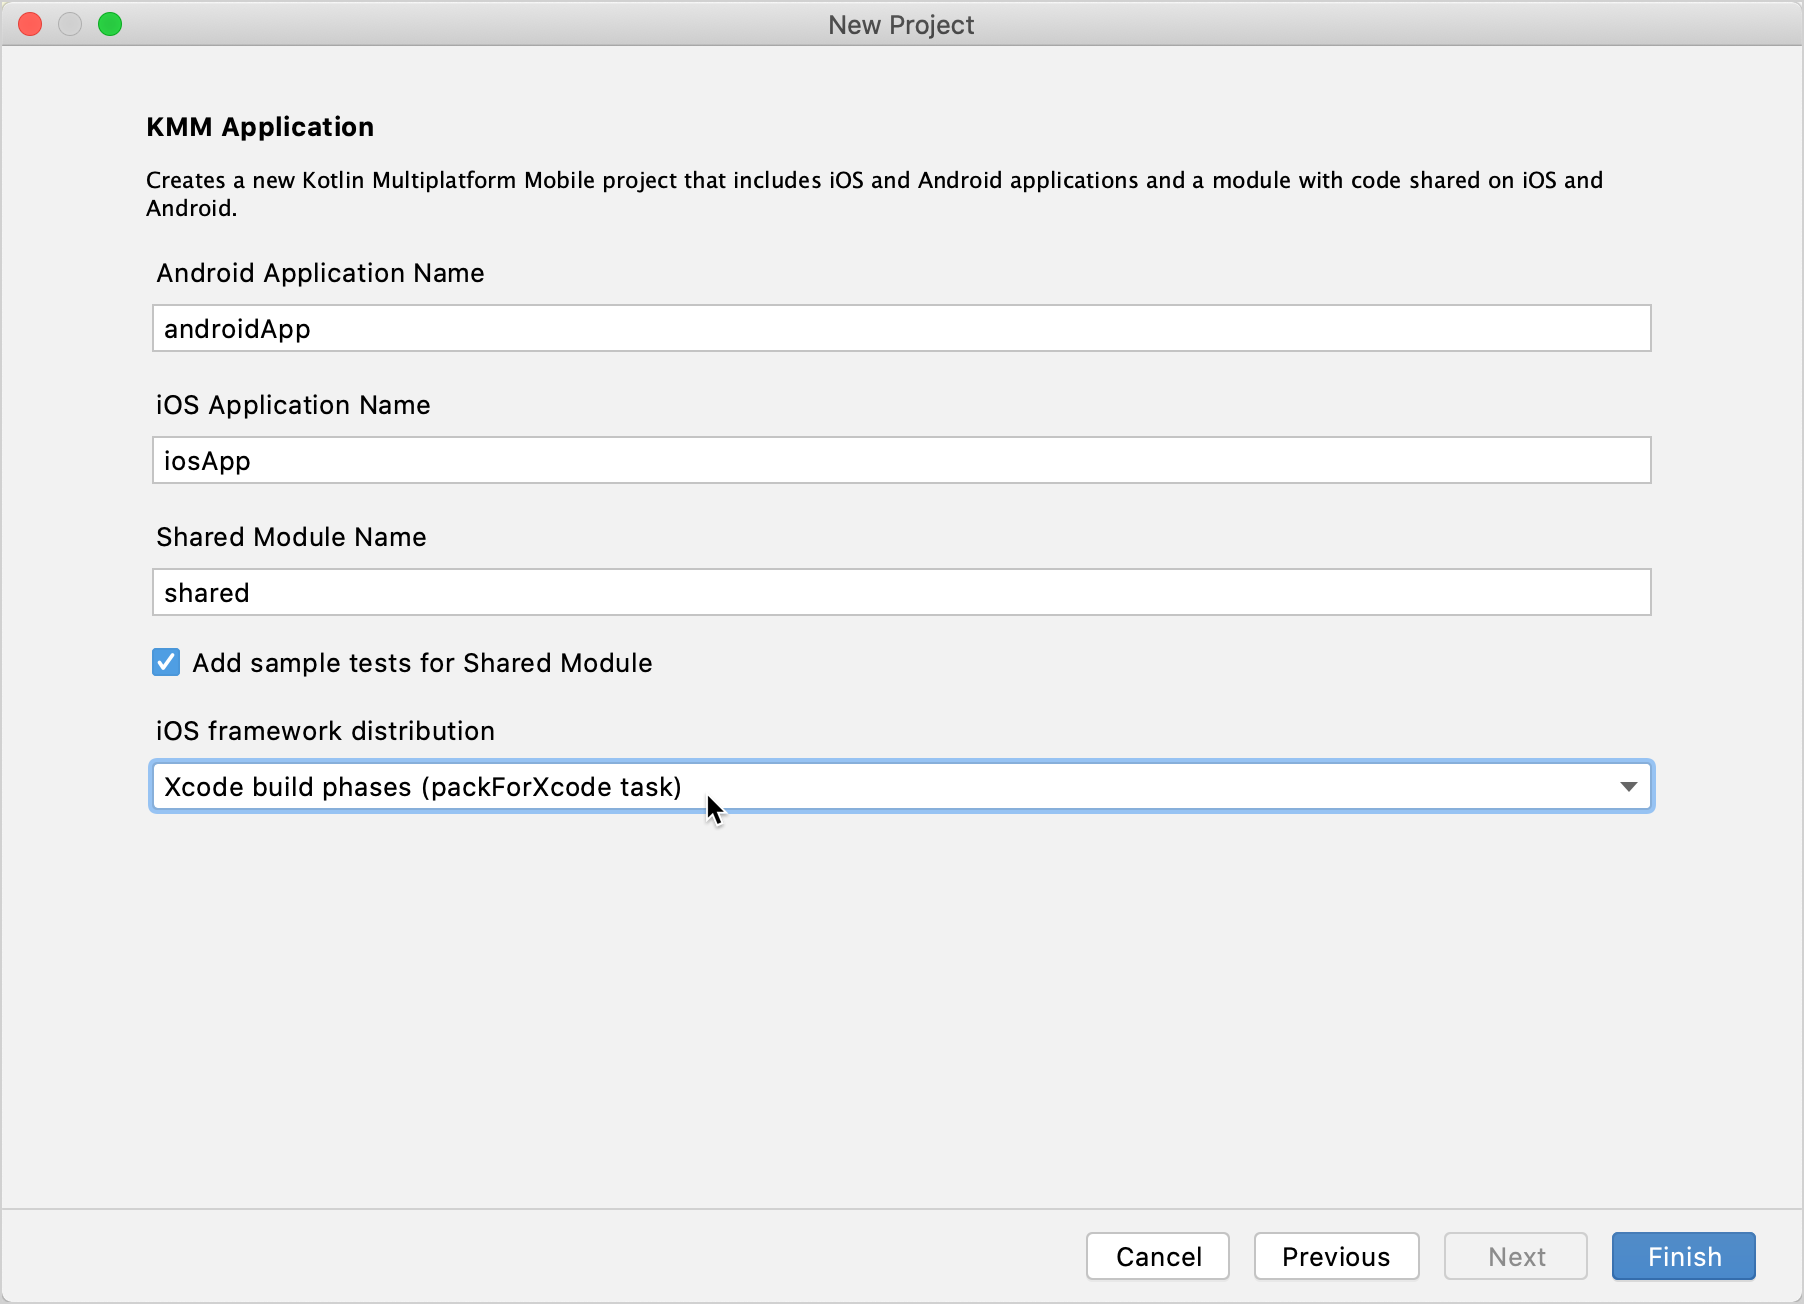
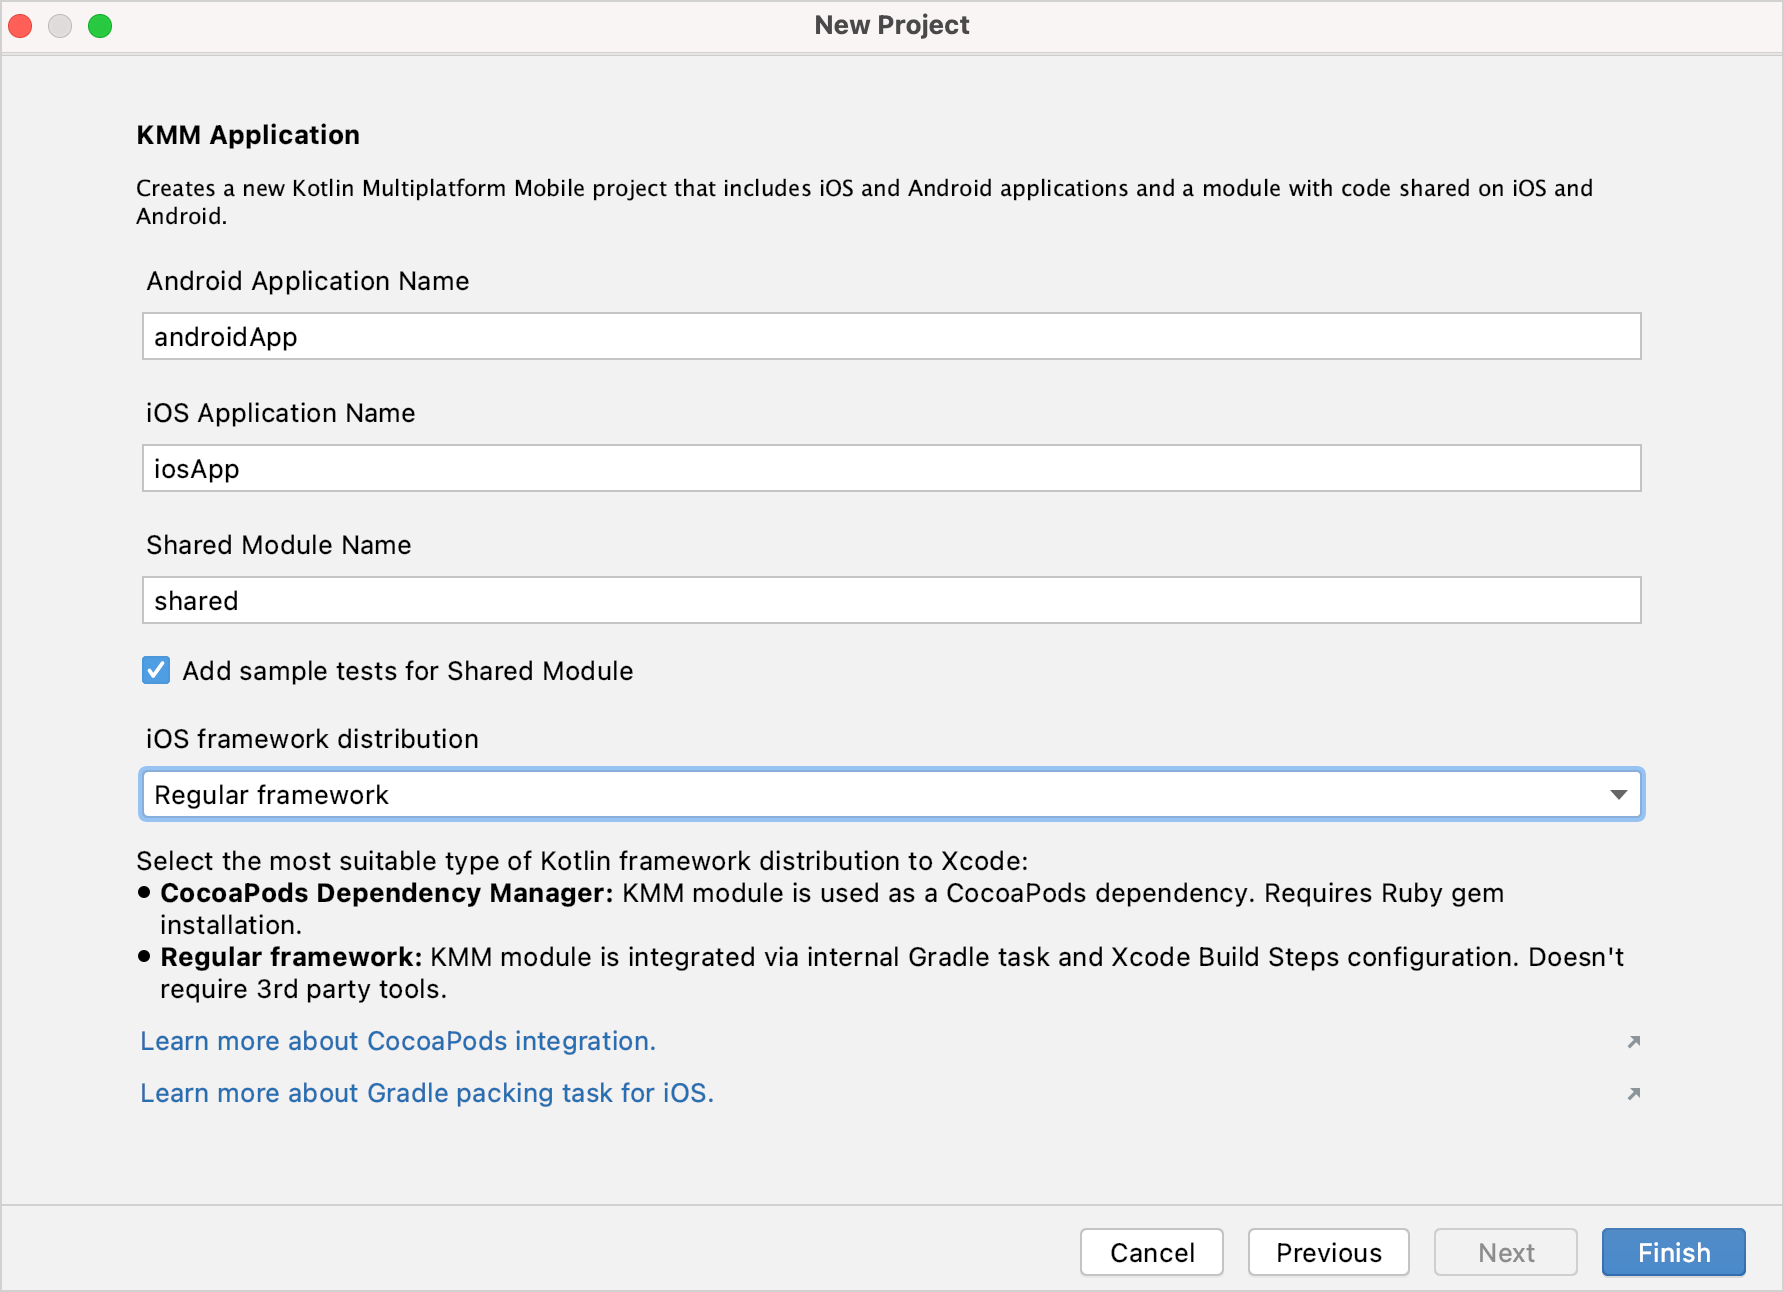
KT-49900: creating kmm app screenshots

diff --git a/docs/topics/kmm/kmm-create-first-app.md b/docs/topics/kmm/kmm-create-first-app.md
@@ -25,11 +25,14 @@ You can also watch a video of this tutorial created by Ekaterina Petrova, Kotlin
 5. In the window that opens, do the following:
    * Keep the default names for the application and shared folders.
    * Select the checkbox to generate sample tests for your project. 
-   * Select **Xcode build phases (packForXcode task)** in the list of iOS framework distribution options. 
+   * Select **Regular framework** in the list of iOS framework distribution options. 
      
    Click **Finish** to create a new project.
 
-    ![Mobile Multiplatform project - additional settings](kmm-project-wizard-3.png)  
+    ![Mobile Multiplatform project - additional settings](kmm-project-wizard-3.png)
+    
+    > If you want to use KMM module as a CocoaPods dependency, select the **CocoaPods dependency manager** option.
+    > To learn more about CocoaPods dependencies, see [CocoaPods integration](native-cocoapods.md).
     
 Now wait while your project is set up. It may take some time to download and set up the required components when you 
 do this for the first time.
